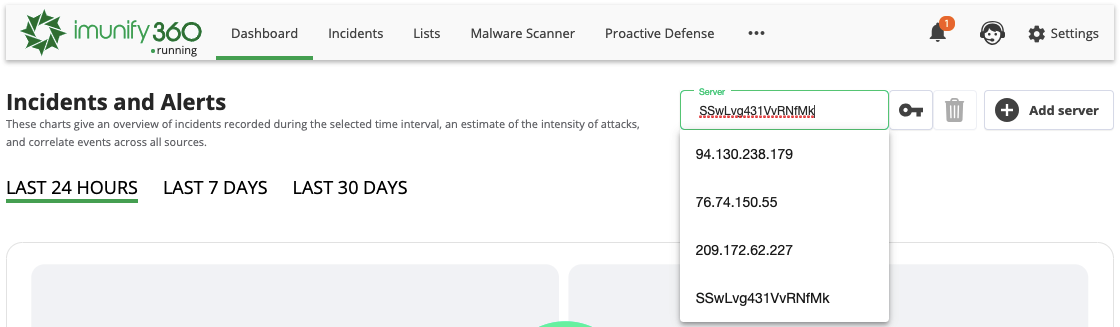
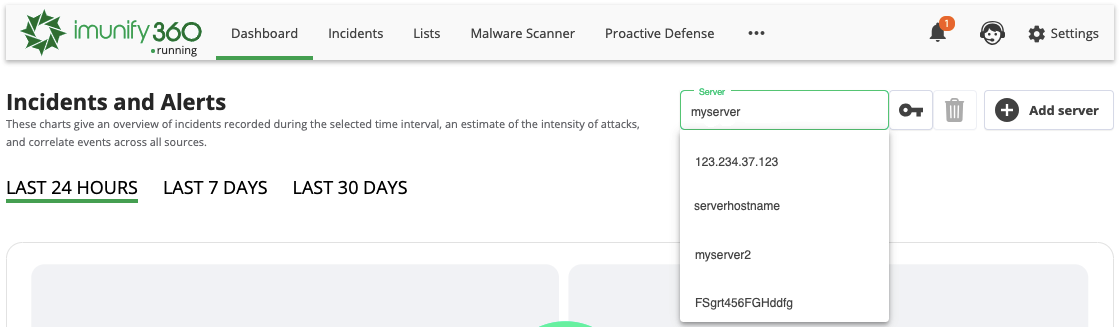
Multi-server Dashboard section improvements

diff --git a/docs/dashboard/README.md b/docs/dashboard/README.md
@@ -70,9 +70,13 @@ Beta 4.1
 :::
 
 Starting from Imunify360 version 4.1, the Dashboard can display Imunify360 performance data for a number of specified servers. 
-* You can add a specified server using server key – a unique server id that identifies an installed Imunify360 instance.
-* You can easily remove a specified server.
-* You can use _Server_ drop-down to show a list of all added servers.
+* You can add a specified server using ITS server key – a unique server id that identifies an installed Imunify360 instance.
+
+    :::tip Note
+   **Server key is NOT a license key**.
+    :::
+* You can easily remove a server from that Dashboard.
+* You can use _Server_ drop-down to show a list of all servers added into that Dashboard.
 
 ![](/images/dashboard_servers.png)
 
@@ -81,17 +85,26 @@ Starting from Imunify360 version 4.1, the Dashboard can display Imunify360 perfo
 
 There are two ways to get a server key.
 
-1. Click the key symbol ![](/images/copy_key.png) to copy server key of the selected server to the clipboard.
+1. Click the key ![](/images/copy_key.png) to copy server key of the selected server to the clipboard.
 
-2. Go to the `/var/imunify360/license.json` file and find `id` filed. Your server id looks like a number-alphabetical string `SSCZ7WB3sjCFLfvz`.
+2. Go to the `/var/imunify360/license.json` file (in the WHM go to the _Terminal_ and run `cat /var/imunify360/license.json` command) and find `id` field. Your server id looks like a number-alphabetical string `SghjhgFESDh65CFLfvz`.
+  ![](/images/id_from_license.png)
 
 #### **How to add a server**
 
-To add a new server, click the _Add Server_ symbol ![](/images/add_server.png). The _Add Server_ pop-up opens.
+If you'd like to display performance data for the server **A** on the Dashboard of the server **B**, please do the following:
 
- ![](/images/add_server_key.png).
+   * Go to the server **A** Dashboard and copy its server key (see [How to get a server key](/dashboard/#how-to-get-a-server-key))
+   * Go to the server **B** Dashboard and click _Add Server_ ![](/images/add_server.png)
+   * The _Add server key_ pop-up opens
 
-Add a server key and click _Confirm_ to add the server or click _Cancel_ to close the pop-up.
+  ![](/images/add_server_key.png)
+
+   * Paste that server key belonging to the server **A** to the _Server key_ field
+   * Click _Confirm_ to add the server **A** to the Dashboard of the server **B** or click _Cancel_ to close the pop-up.
+  
+
+Go to the _Server_ drop-down to check all added servers – it contains a list of hostnames of all added servers or a list of IPs (if hostname is not found) or a list of server keys (if hostname and IP are not found).
 
 #### **How to remove a server**
 
@@ -100,6 +113,10 @@ To remove a server, click the _Trash Can_ symbol ![](/images/remove_server.png).
 ![](/images/remove_server_popup.png)
 
 Click _Confirm_ to remove the server or click _Cancel_ to close the pop-up.
+
+::: tip Note
+You cannot remove the server with the Imunify360 instance installed.
+:::
 
 ### Charts and heat maps
 
@@ -1120,7 +1137,7 @@ Click <span class="notranslate">_Save changes_</span> button on the bottom of th
 Imunify360 version 4.1 Beta
 :::
  
-Type your email into the <span class="notranslate">_Email_</span> field to receive email reports about critical issues, security alerts or system misconfigurations detected on the registered servers.
+Type your email into the <span class="notranslate">_Email_</span> field to receive email reports about critical issues, security alerts or system misconfigurations detected on your servers.
 
 ::: tip Note
 This email address is used ONLY for receiving server reports.
